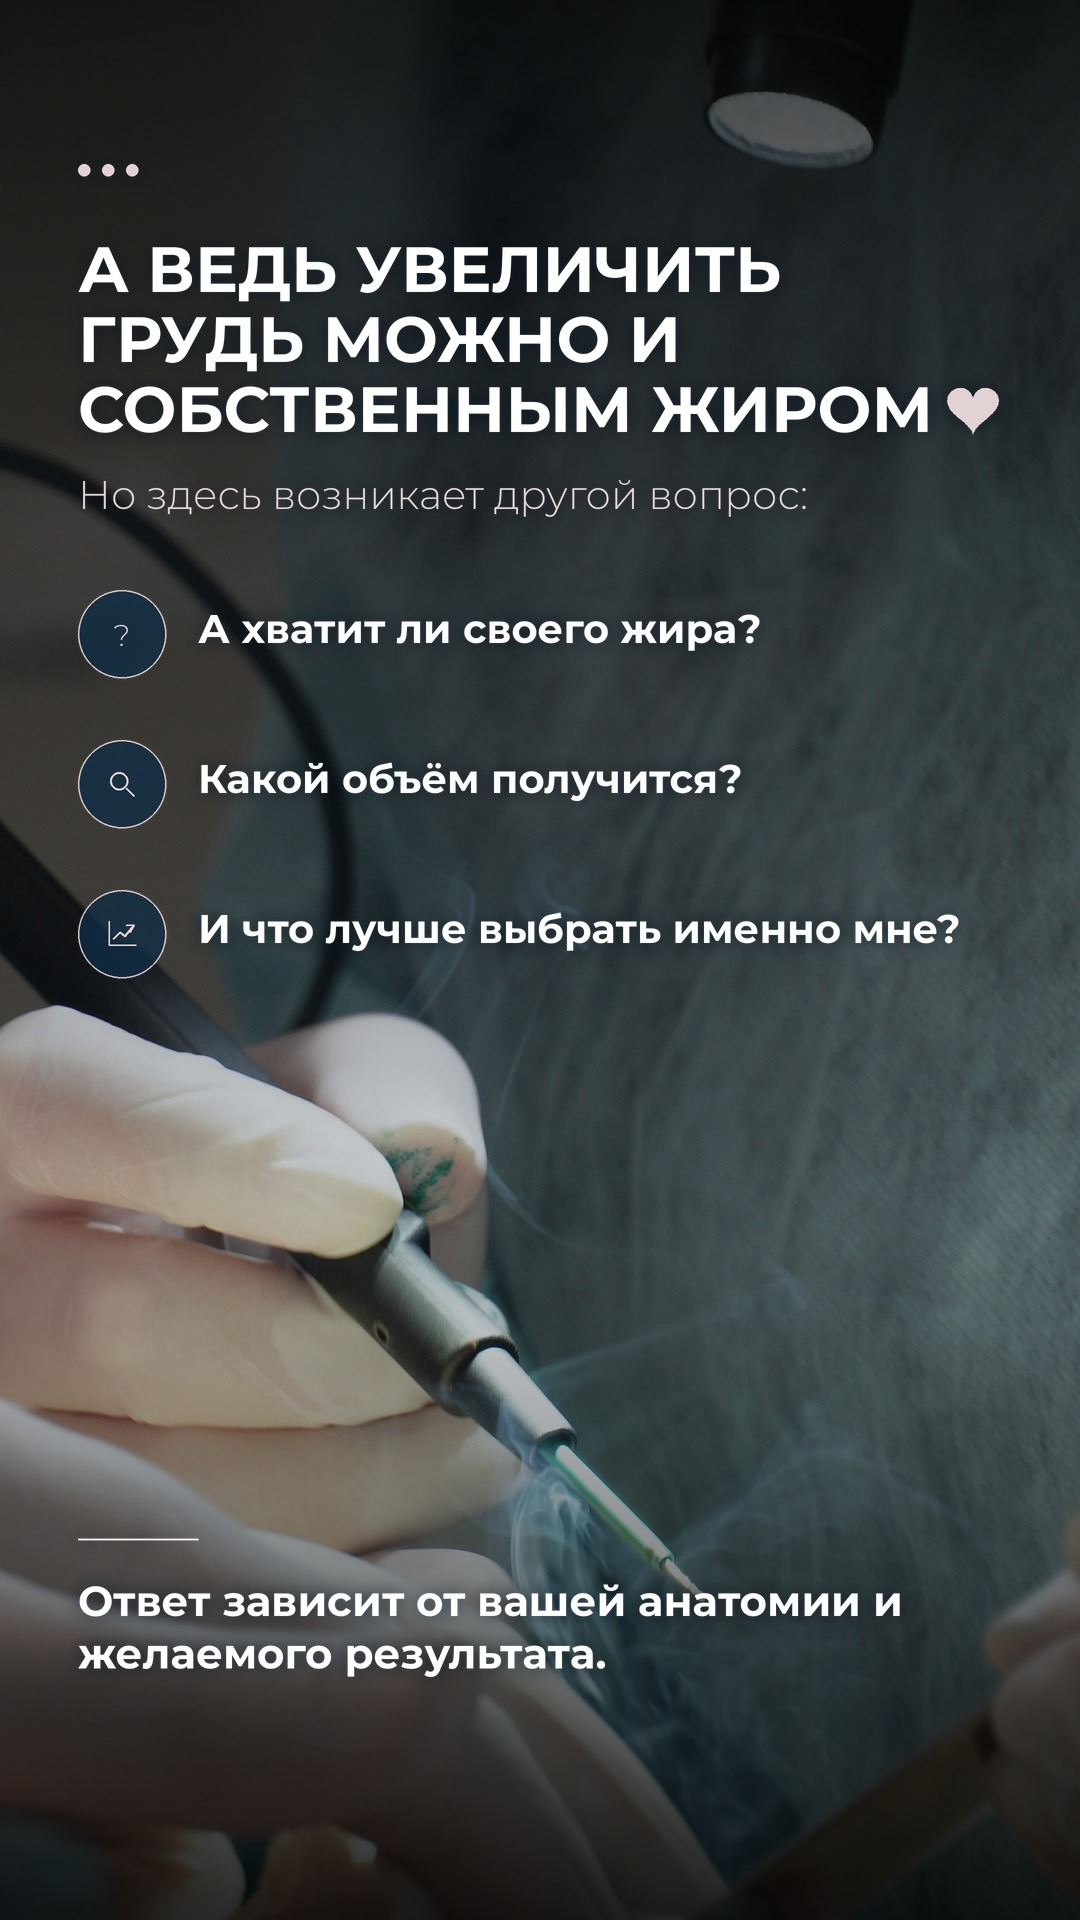
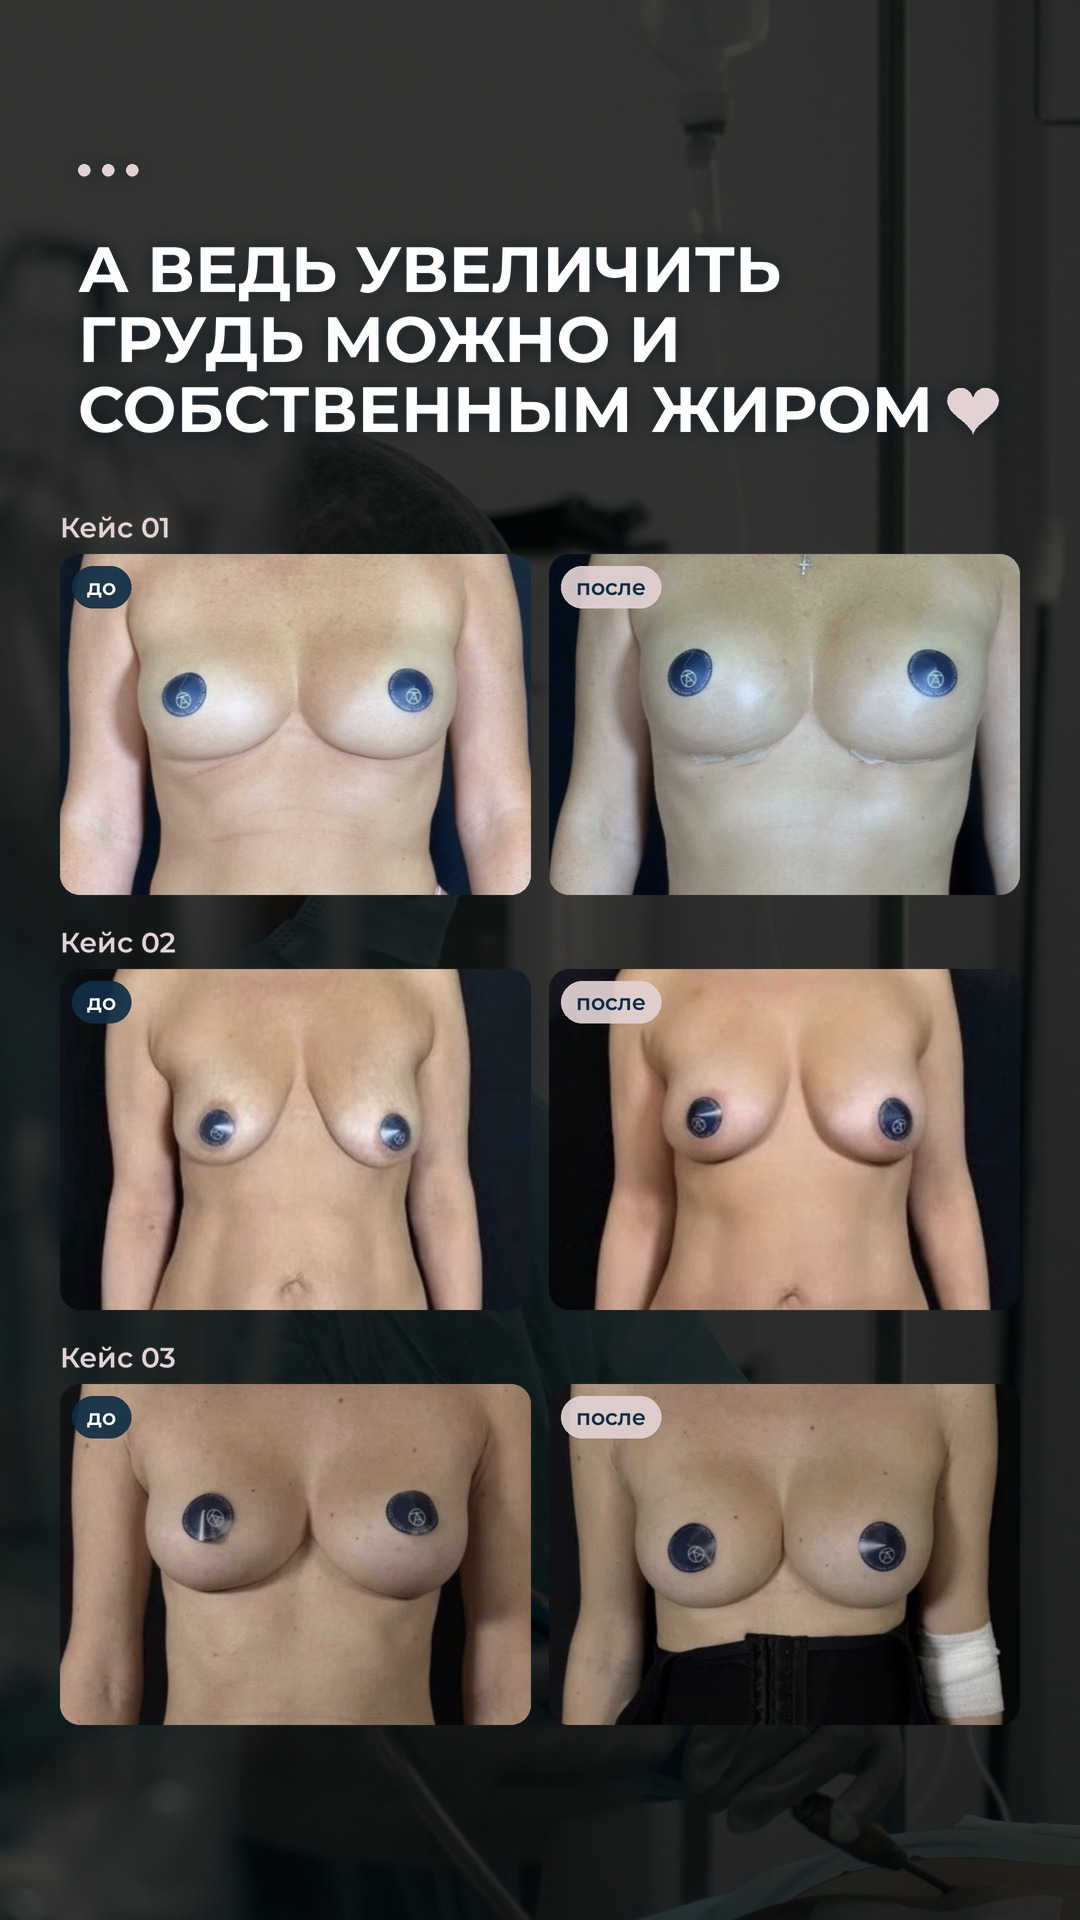
Stories lipofilling or implants: story 2 shows three lipofilling cases before/after; questions move to story 3, test to story 4
Claude-Session: https://claude.ai/code/session_01DLYcpYAewhkUMdYYshxueL

diff --git a/tools/stories_lipo_or_implants.py b/tools/stories_lipo_or_implants.py
@@ -1,4 +1,4 @@
-"""Stories 9:16 'Хочу увеличить грудь, но импланты не хочу…' — 3 animated stories (1080x1920, 30 fps).
+"""Stories 9:16 'Хочу увеличить грудь, но импланты не хочу…' — 4 stories (1080x1920, 30 fps).
 Text sits straight on the footage (no black plate): light gradients + a soft dark halo under the type.
 
 Story design approved earlier (stories_ptoz): three powder dots + big bold caps headline on black at
@@ -203,29 +203,59 @@ def st1():
     render(1, lambda d: footage(VID_OR, 6.0, d, cx=0.55, cy=0.35), veil(820, 1080), els, 7.0)
 
 
+def case_card(sl, im, box, r=20):
+    x0, y0, x1, y1 = box; w, h = int((x1 - x0) * S), int((y1 - y0) * S)
+    m = Image.new("L", (w, h), 0); ImageDraw.Draw(m).rounded_rectangle((0, 0, w - 1, h - 1), radius=r * S, fill=255)
+    s_ = max(w / im.width, h / im.height); r_ = im.resize((int(im.width * s_) + 1, int(im.height * s_) + 1), Image.LANCZOS)
+    cx, cy = (r_.width - w) // 2, (r_.height - h) // 2
+    sl.im.paste(r_.crop((cx, cy, cx + w, cy + h)), (int(x0 * S), int(y0 * S)), m)
+
+
+def pill(sl, x, y, text, bg, fg, size=24):
+    f = mont(size, 600); tw = f.getlength(text) / S; ph = size + 20
+    sl.rrect((x, y, x + tw + 30, y + ph), ph / 2, bg, 235); sl.text((x + 15, y + ph / 2), text, f, fg, "lm")
+
+
 def st2():
+    """the proof right after the claim: three real lipofilling cases, before / after"""
     rows = ["А ВЕДЬ УВЕЛИЧИТЬ", "ГРУДЬ МОЖНО И", "СОБСТВЕННЫМ ЖИРОМ"]; size, lh, hy = headline(rows)
     def hf(sl):
         dots(sl, 170)
         for i, r in enumerate(rows): sl.text((X, 230 + i * lh), r, mont(size, BOLD), WHITE)
         heart(sl, X + mont(size, BOLD).getlength(rows[-1]) / S + 40, 230 + 2 * lh + size * 0.58, size * 0.4)
-    qs = ["А хватит ли своего жира?", "Какой объём получится?", "И что лучше выбрать именно мне?"]
-    kinds = ["question", "search", "chart"]
-    lead = "Ответ зависит от вашей анатомии и желаемого результата."
-    els = [E(hf, 0.3, "rise", 0.7),
-           E(lambda sl: para(sl, X, hy + 30, "Но здесь возникает другой вопрос:", 40, THIN, POWDER), 1.8)]
-    yq = hy + 150
-    for i, (q, k) in enumerate(zip(qs, kinds)):
-        yy = yq + i * 150
-        els.append(E(lambda sl, k=k, yy=yy: (sl.circle((X + 44, yy + 44), 44, NAVY, 0, 255, fill=NAVY + (200,)),
-                                             icon_circle(sl, (X + 44, yy + 44), k, 44)), 2.8 + i * 0.9, "rise", halo=False))
-        els.append(E(lambda sl, q=q, yy=yy: para(sl, X + 120, yy + 14, q, 40, BOLD, WHITE, W - 2 * X - 120), 3.0 + i * 0.9))
-    y0, _ = bottom_block(lead, None, 42)
-    els.append(E(lambda sl: (sl.poly([(X, y0 - 36), (X + 120, y0 - 36)], POWDER, 2.4), para(sl, X, y0, lead, 42, BOLD)), 6.0))
-    render(2, lambda d: footage(VID_HANDS, 1.0, d, cx=0.5, cy=0.5), veil(1250, 1250, 0.68, 0.8), els, 8.0)
+    els = [E(hf)]
+    gap = 18; cw = (W - 2 * 60 - gap) // 2; ch = int(cw * 355 / 490); y = int(hy + 70)
+    for i in range(3):
+        b = ImageOps.exif_transpose(Image.open(os.path.join(SRC, f"case{i + 1}_b.jpg"))).convert("RGB")
+        a = ImageOps.exif_transpose(Image.open(os.path.join(SRC, f"case{i + 1}_a.jpg"))).convert("RGB")
+        yy = y + i * (ch + 74)
+        def row(sl, b=b, a=a, yy=yy, i=i):
+            sl.text((60, yy), f"Кейс 0{i + 1}", mont(28, 600), POWDER)
+            bb = (60, yy + 44, 60 + cw, yy + 44 + ch); ab = (60 + cw + gap, yy + 44, 60 + 2 * cw + gap, yy + 44 + ch)
+            case_card(sl, b, bb); case_card(sl, a, ab)
+            pill(sl, bb[0] + 12, bb[1] + 12, "до", NAVY, WHITE, 22); pill(sl, ab[0] + 12, ab[1] + 12, "после", POWDER, NAVY, 22)
+        els.append(E(row, halo=False))
+    render(2, lambda d: footage(VID_OR, 0.2, d, cx=0.5, cy=0.4), veil(H, H, 0.0, 0.0, 0.72), els, 7.0)
 
 
 def st3():
+    rows = ["НО ЗДЕСЬ ВОЗНИКАЕТ", "ДРУГОЙ ВОПРОС:"]; size, lh, hy = headline(rows)
+    qs = ["А хватит ли своего жира?", "Какой объём получится?", "И что лучше выбрать именно мне?"]
+    kinds = ["question", "search", "chart"]
+    lead = "Ответ зависит от вашей анатомии и желаемого результата."
+    els = [E(lambda sl: (dots(sl, 170), [sl.text((X, 230 + i * lh), r, mont(size, BOLD), WHITE) for i, r in enumerate(rows)]))]
+    yq = hy + 110
+    for i, (q, k) in enumerate(zip(qs, kinds)):
+        yy = yq + i * 150
+        els.append(E(lambda sl, k=k, yy=yy: (sl.circle((X + 44, yy + 44), 44, NAVY, 0, 255, fill=NAVY + (200,)),
+                                             icon_circle(sl, (X + 44, yy + 44), k, 44)), halo=False))
+        els.append(E(lambda sl, q=q, yy=yy: para(sl, X + 120, yy + 14, q, 40, BOLD, WHITE, W - 2 * X - 120)))
+    y0, _ = bottom_block(lead, None, 42)
+    els.append(E(lambda sl: (sl.poly([(X, y0 - 36), (X + 120, y0 - 36)], POWDER, 2.4), para(sl, X, y0, lead, 42, BOLD))))
+    render(3, lambda d: footage(VID_HANDS, 1.0, d, cx=0.5, cy=0.5), veil(1100, 1250, 0.68, 0.8), els, 7.0)
+
+
+def st4():
     rows = ["ЛИПОФИЛИНГ", "ИЛИ ИМПЛАНТЫ?"]; size, lh, hy = headline(rows, size=92)
     t1 = "Чтобы вам было проще разобраться, я подготовила небольшой тест"
     t2 = "Он поможет понять различия между методами и какой вариант стоит обсудить на консультации."
@@ -240,10 +270,10 @@ def st3():
         sl.text((W / 2, 1600), bt, fb, NAVY, "mm")
     els.append(E(cta, 4.2, "rise", 0.7))
     els.append(E(lambda sl: logo(sl, 1760, POWDER, 0.9, 0.85), 4.6, "fade"))
-    render(3, lambda d: footage(PHOTO, 0, d, cx=0.5, cy=0.12, zoom=1.05), veil(640, 980, 0.6, 0.85), els, 6.5)
+    render(4, lambda d: footage(PHOTO, 0, d, cx=0.5, cy=0.12, zoom=1.05), veil(640, 980, 0.6, 0.85), els, 6.5)
 
 
-STORIES = [st1, st2, st3]
+STORIES = [st1, st2, st3, st4]
 
 if __name__ == "__main__":
     os.makedirs(OUT, exist_ok=True)
